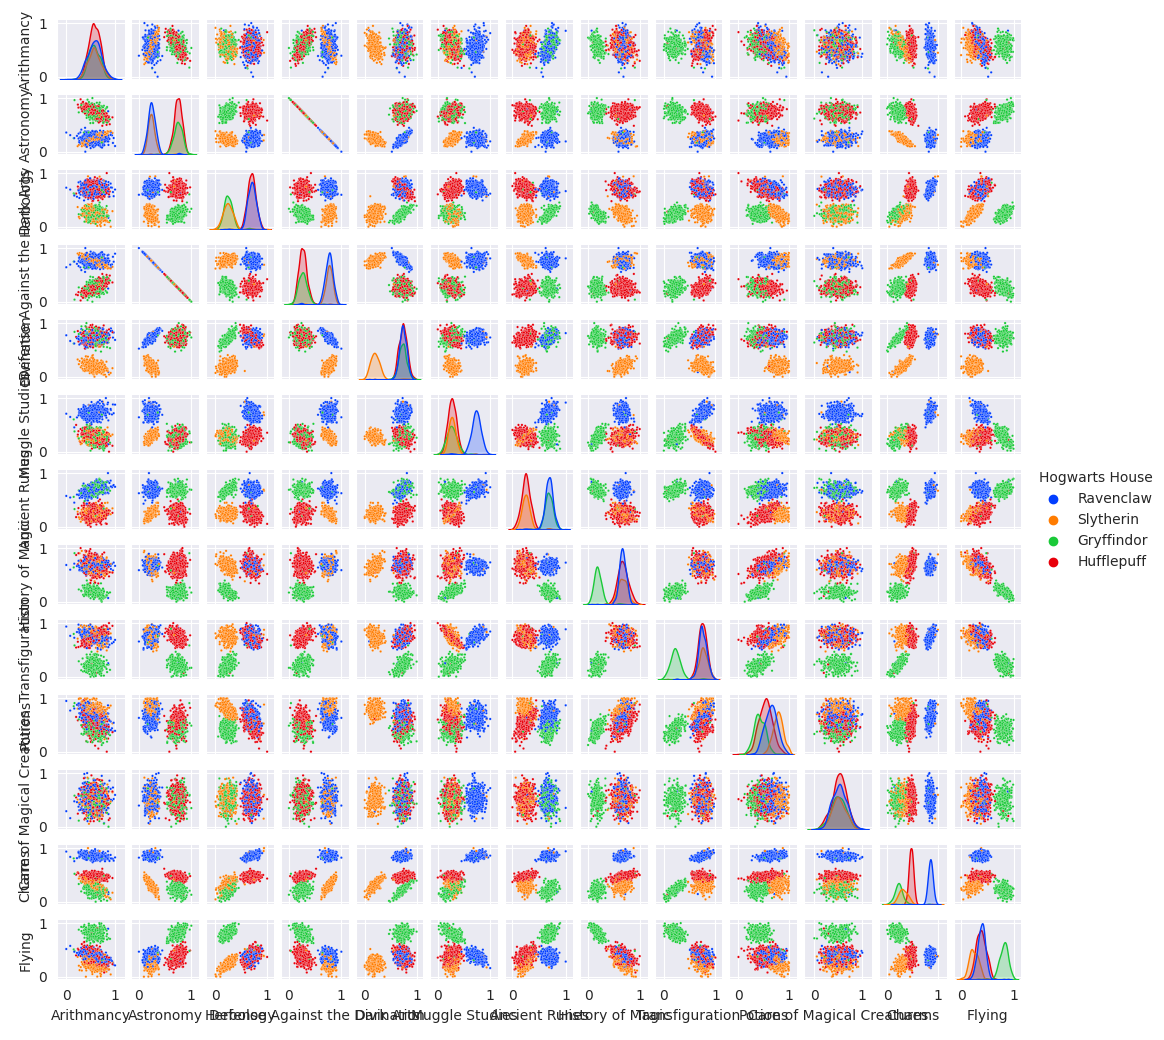
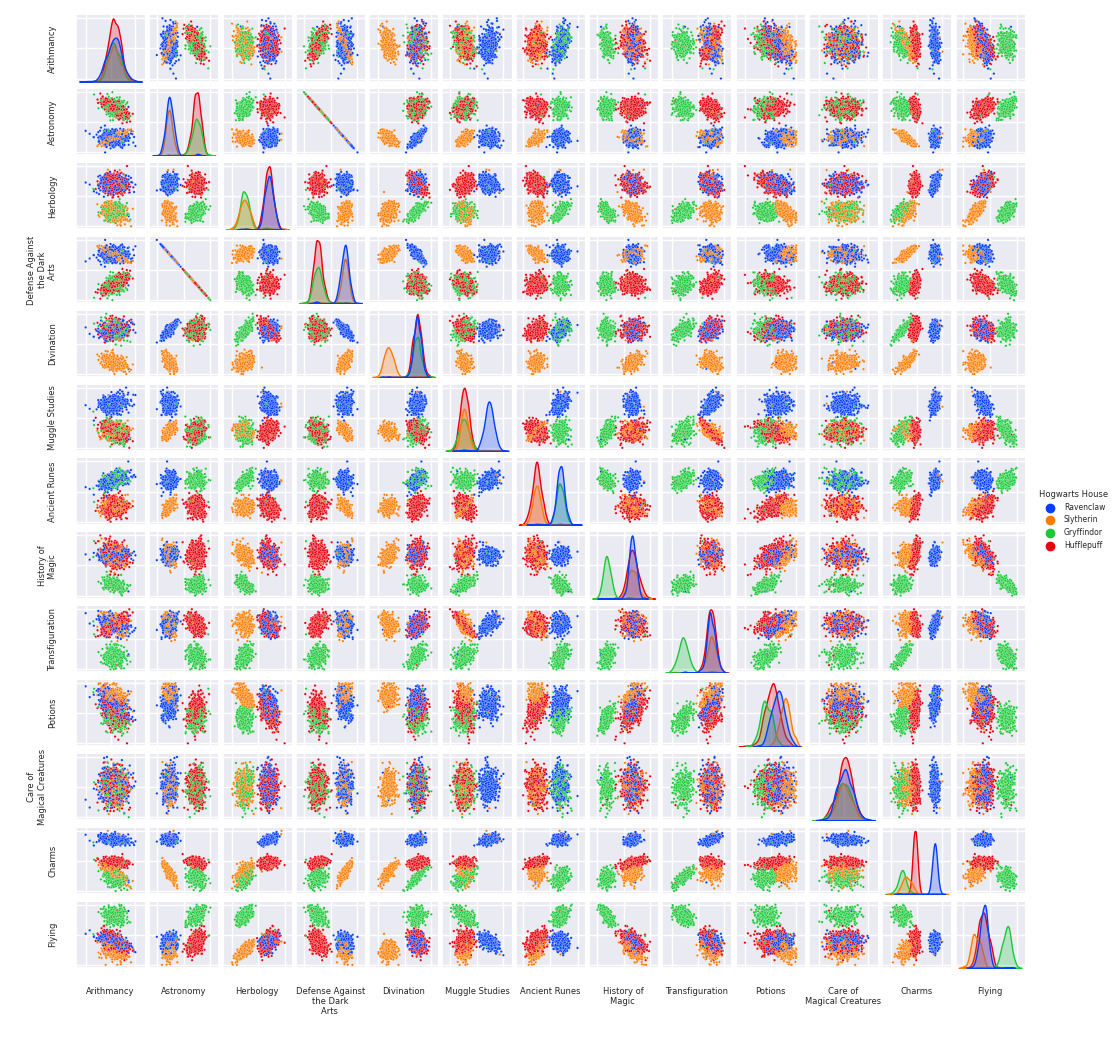
beautify pairplot, now only explanations left

diff --git a/pair_plot.py b/pair_plot.py
@@ -6,6 +6,7 @@ from colors import colors
 import seaborn as sns
 
 
+# drops all non-numeric columns besides "Hogwarts House"
 def arrange_columns(df):
 	# drop index column
 	df.drop(columns=['Index'], inplace=True)
@@ -19,6 +20,27 @@ def arrange_columns(df):
 			df.drop(columns=[column], inplace=True)
 
 
+# adds newlines to long label names
+def adjust_plot_labels(df):
+	new_column_names = []
+	for column in df:
+		if column == 'Hogwarts House':
+			new_column_names.append(column)
+		elif len(column) > 15:
+			split_col = column.split(" ")
+			tmp_col_name = ""
+			for i in range(len(split_col)):
+				tmp_col_name += split_col[i]
+				if i % 2:
+					tmp_col_name += "\n"
+				else:
+					tmp_col_name += " "
+			new_column_names.append(tmp_col_name)
+		else:
+			new_column_names.append(column)
+	df.columns = new_column_names
+
+
 def main():
 
 	try:
@@ -28,8 +50,7 @@ def main():
 		exit()
 
 	arrange_columns(df)
-	# get sub-df's by houses
-	# ravenclaw = df[df["Hogwarts House"] == "Ravenclaw"]
+	adjust_plot_labels(df)
 
 	########### normalize data start (min-max) ###########
 	for column in df:
@@ -43,8 +64,6 @@ def main():
 	########### normalize data end ###########
 
 	
-	sns.set_style('darkgrid')
-	
 	#REMOVE
 	# i = 0
 	# for column in df:
@@ -53,17 +72,16 @@ def main():
 	# 		df.drop(columns=[column], inplace=True)
 	#REMOVE
 
+	# scale down the font size
+	sns.set_style('darkgrid')
+	sns.set(font_scale=0.5)
+	# plot the pairplot and give a hue according to the "Hogwarts House" feature
 	pairplot = sns.pairplot(df, hue="Hogwarts House", height=0.8, palette="bright", kind="scatter", plot_kws={"s": 3})
-	# pairplot.set_yticklabels(df.columns, rotation=90)
-	# pairplot.tick_params(axis='both', rotation=90)
-	# pairplot.set(xlabel)
-	# for ax in pairplot.axes.flatten():
-   		# ax.tick_params(rotation = 90)
-	# ax.set_xticklabels(["one", "two", "three", "four", "five"], rotation=45)
 
-	# plt.legend(bbox_to_anchor=(1.02, 0.15), loc='upper left', borderaxespad=0)
-	# plt.yticks(rotation=90)
-	# sns.xticks(rotation=90)
+	# remove labels in sub-plots
+	for ax in pairplot.axes.flatten():
+   		ax.set_xticklabels([])
+   		ax.set_yticklabels([])
 
 	# plt.tight_layout()
 	plt.savefig('pair_plot.png')
